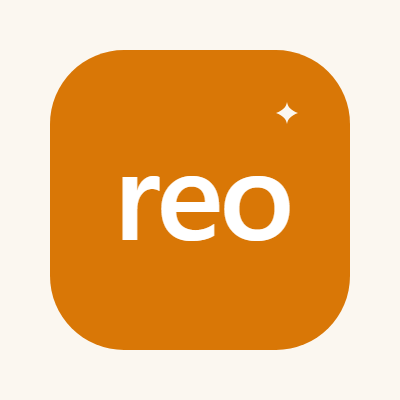
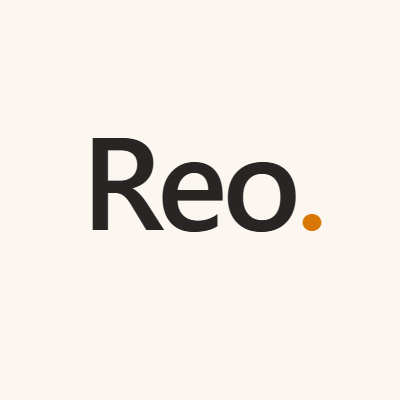
Reoブランド刷新: アイコンを Reo. ワードマークに、ヘッダーをタイポのみ（product非依存）

diff --git a/assets/x-header.html b/assets/x-header.html
@@ -1,32 +1,14 @@
 <!doctype html><html><head><meta charset="utf-8"><style>
   html,body{margin:0;padding:0;background:#fbf7f0}
-  .wrap{width:1500px;height:500px;background:#fbf7f0;position:relative;overflow:hidden;
-        font-family:system-ui,-apple-system,"Hiragino Kaku Gothic ProN","Noto Sans JP",sans-serif}
-  .txt{position:absolute;left:92px;top:74px}
-  .name{font-size:92px;font-weight:800;color:#292524;letter-spacing:-2px;line-height:1}
-  .sub{margin-top:20px;font-size:32px;color:#57534e;font-weight:600}
-  .rule{position:absolute;left:96px;top:262px;width:200px;height:8px;background:#d97706;border-radius:4px}
-  .art{position:absolute;right:70px;top:0;height:500px;opacity:.16}
+  .w{width:1500px;height:500px;background:#fbf7f0;position:relative;
+     font-family:system-ui,-apple-system,"Hiragino Kaku Gothic ProN","Noto Sans JP",sans-serif}
+  .n{position:absolute;left:96px;top:96px;font-size:100px;font-weight:800;color:#292524;letter-spacing:-2px;line-height:1}
+  .s{position:absolute;left:100px;top:238px;font-size:33px;font-weight:600;color:#57534e}
+  .r{position:absolute;left:100px;top:306px;width:210px;height:8px;background:#d97706;border-radius:4px}
 </style></head><body>
-  <div class="wrap">
-    <svg class="art" viewBox="0 0 520 500" fill="none" stroke="#b45309" stroke-width="7" stroke-linecap="round" stroke-linejoin="round">
-      <!-- spray bottle -->
-      <path d="M120 150h70v190a20 20 0 0 1-20 20h-30a20 20 0 0 1-20-20z"/>
-      <path d="M138 150v-24h34v24M138 126h-34l-24-20h58M120 106v-16h50"/>
-      <!-- toilet paper roll -->
-      <ellipse cx="360" cy="120" rx="70" ry="26"/>
-      <path d="M290 120v70c0 14 31 26 70 26s70-12 70-26v-70"/>
-      <ellipse cx="360" cy="120" rx="24" ry="10"/>
-      <!-- battery -->
-      <rect x="150" y="400" width="150" height="66" rx="10"/>
-      <path d="M300 420h16v26h-16M182 400v-14h30v14"/>
-      <!-- droplet -->
-      <path d="M410 360c40 44 40 74 0 74s-40-30 0-74z"/>
-    </svg>
-    <div class="txt">
-      <div class="name">Reo</div>
-      <div class="sub">個人開発 ／ 作ったものの話をします</div>
-    </div>
-    <div class="rule"></div>
+  <div class="w">
+    <div class="n">Reo</div>
+    <div class="s">作ったものの話をします。個人開発。</div>
+    <div class="r"></div>
   </div>
 </body></html>

diff --git a/assets/note-header.html b/assets/note-header.html
@@ -1,28 +1,14 @@
 <!doctype html><html><head><meta charset="utf-8"><style>
   html,body{margin:0;padding:0;background:#fbf7f0}
-  .wrap{width:1920px;height:1006px;background:#fbf7f0;position:relative;overflow:hidden;
-        font-family:system-ui,-apple-system,"Hiragino Kaku Gothic ProN","Noto Sans JP",sans-serif}
-  .txt{position:absolute;left:140px;top:390px}
-  .name{font-size:150px;font-weight:800;color:#292524;letter-spacing:-3px;line-height:1}
-  .sub{margin-top:34px;font-size:46px;color:#57534e;font-weight:600}
-  .rule{position:absolute;left:144px;bottom:150px;width:300px;height:12px;background:#d97706;border-radius:6px}
-  .art{position:absolute;right:110px;top:150px;height:720px;opacity:.15}
+  .w{width:1920px;height:1006px;background:#fbf7f0;position:relative;
+     font-family:system-ui,-apple-system,"Hiragino Kaku Gothic ProN","Noto Sans JP",sans-serif}
+  .n{position:absolute;left:140px;top:392px;font-size:150px;font-weight:800;color:#292524;letter-spacing:-3px;line-height:1}
+  .s{position:absolute;left:146px;top:588px;font-size:46px;font-weight:600;color:#57534e}
+  .r{position:absolute;left:146px;top:686px;width:300px;height:12px;background:#d97706;border-radius:6px}
 </style></head><body>
-  <div class="wrap">
-    <svg class="art" viewBox="0 0 640 720" fill="none" stroke="#b45309" stroke-width="9" stroke-linecap="round" stroke-linejoin="round">
-      <path d="M150 210h90v250a26 26 0 0 1-26 26h-38a26 26 0 0 1-26-26z"/>
-      <path d="M173 210v-30h44v30M173 180h-44l-30-26h74M150 154v-20h64"/>
-      <ellipse cx="460" cy="170" rx="92" ry="34"/>
-      <path d="M368 170v92c0 19 41 34 92 34s92-15 92-34v-92"/>
-      <ellipse cx="460" cy="170" rx="32" ry="13"/>
-      <rect x="180" y="540" width="200" height="88" rx="14"/>
-      <path d="M380 566h22v36h-22M222 540v-18h40v18"/>
-      <path d="M520 470c52 58 52 98 0 98s-52-40 0-98z"/>
-    </svg>
-    <div class="txt">
-      <div class="name">Reo</div>
-      <div class="sub">個人開発 ／ 作ったものの話をします</div>
-    </div>
-    <div class="rule"></div>
+  <div class="w">
+    <div class="n">Reo</div>
+    <div class="s">作ったものの話をします。個人開発。</div>
+    <div class="r"></div>
   </div>
 </body></html>

diff --git a/assets/icon.html b/assets/icon.html
@@ -1,14 +1,12 @@
 <!doctype html><html><head><meta charset="utf-8"><style>
   html,body{margin:0;padding:0;background:#fbf7f0}
-  .wrap{width:400px;height:400px;background:#fbf7f0;display:flex;align-items:center;justify-content:center}
+  .w{width:400px;height:400px;background:#fbf7f0;display:flex;align-items:center;justify-content:center}
 </style></head><body>
-  <div class="wrap">
-    <svg width="320" height="320" viewBox="0 0 320 320" xmlns="http://www.w3.org/2000/svg">
-      <rect x="10" y="10" width="300" height="300" rx="74" fill="#d97706"/>
-      <text x="162" y="200" text-anchor="middle"
+  <div class="w">
+    <svg width="400" height="400" viewBox="0 0 400 400" xmlns="http://www.w3.org/2000/svg">
+      <text x="202" y="230" text-anchor="middle"
             font-family="system-ui,-apple-system,'Segoe UI',sans-serif" font-weight="800"
-            font-size="126" letter-spacing="-4" fill="#ffffff">reo</text>
-      <path transform="translate(236,62)" d="M11 0c.9 5.3 3.6 8 11 11-7.4 3-10.1 5.7-11 11-.9-5.3-3.6-8-11-11 7.4-3 10.1-5.7 11-11z" fill="#fbf7f0"/>
+            font-size="132" letter-spacing="-5" fill="#292524">Reo<tspan fill="#d97706">.</tspan></text>
     </svg>
   </div>
 </body></html>
